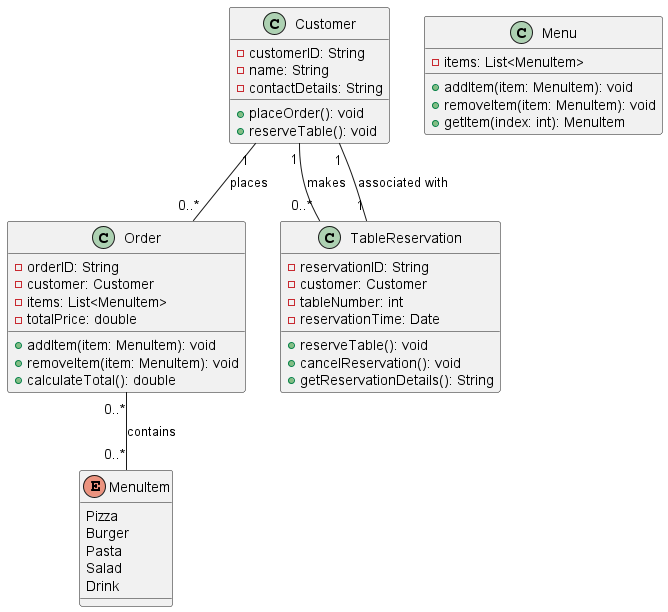
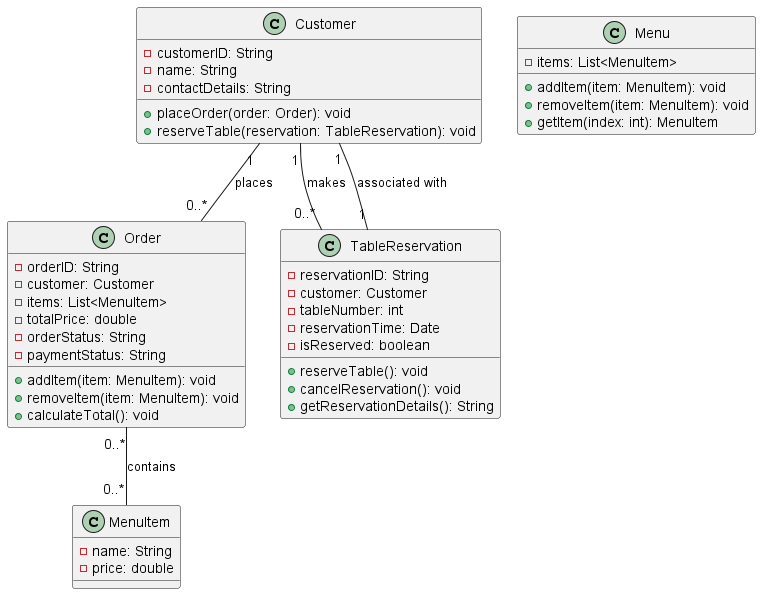
restaurant-management-updated

Changed region(s): [[0.0, 0.0, 1.0, 1.0]]

diff --git a/Restaurant-project/Code/restaurant.dart b/Restaurant-project/Code/restaurant.dart
@@ -1,11 +1,10 @@
-enum MenuItem {
-  Pizza,
-  Burger,
-  Pasta,
-  FrenchFries,
-  Salad,
-  Drink
+class MenuItem {
+  String name;
+  double price;
+
+  MenuItem(this.name, this.price);
 }
+
 class Customer {
   String customerID;
   String name;
@@ -15,7 +14,6 @@ class Customer {
 
   void placeOrder(Order order) {
     // Implementation for placing an order
-    
   }
 
   void reserveTable(TableReservation reservation) {
@@ -60,8 +58,10 @@ class Order {
   }
 
   void calculateTotal() {
-    // Assuming each item has a fixed price for simplicity
-    totalPrice = items.length * 10.0; // Example price calculation
+    totalPrice = items.fold(0.0, (sum, item) => sum + item.price);
+  }
+  String getRecipe() {
+    return 'Order ID: $orderID, Customer: ${customer.name}, Total Price: $totalPrice';
   }
 }
 
@@ -91,16 +91,17 @@ void main() {
   // Example usage
   Customer customer = Customer('C001', 'Pen Sithol', '070-458-409');
   Menu menu = Menu();
-  menu.addItem(MenuItem.Burger);
-  menu.addItem(MenuItem.Drink);
+  menu.addItem(MenuItem('Burger', 5.0));
+  menu.addItem(MenuItem('Drink', 2.0));
 
   Order order = Order('O001', customer, 'Pending', 'Unpaid');
-  order.addItem(MenuItem.Burger);
+  order.addItem(MenuItem('Burger', 5.0));
+  order.addItem(MenuItem('Drink', 2.0));
   order.calculateTotal();
 
   TableReservation reservation = TableReservation('R001', customer, 5, DateTime.now(), false);
   reservation.reserveTable();
 
-  print('Order Total Price: ${order.totalPrice}');
+  print('Reciepe: ${order.getRecipe()}');
   print('Reservation Details: ${reservation.getReservationDetails()}');
 }
